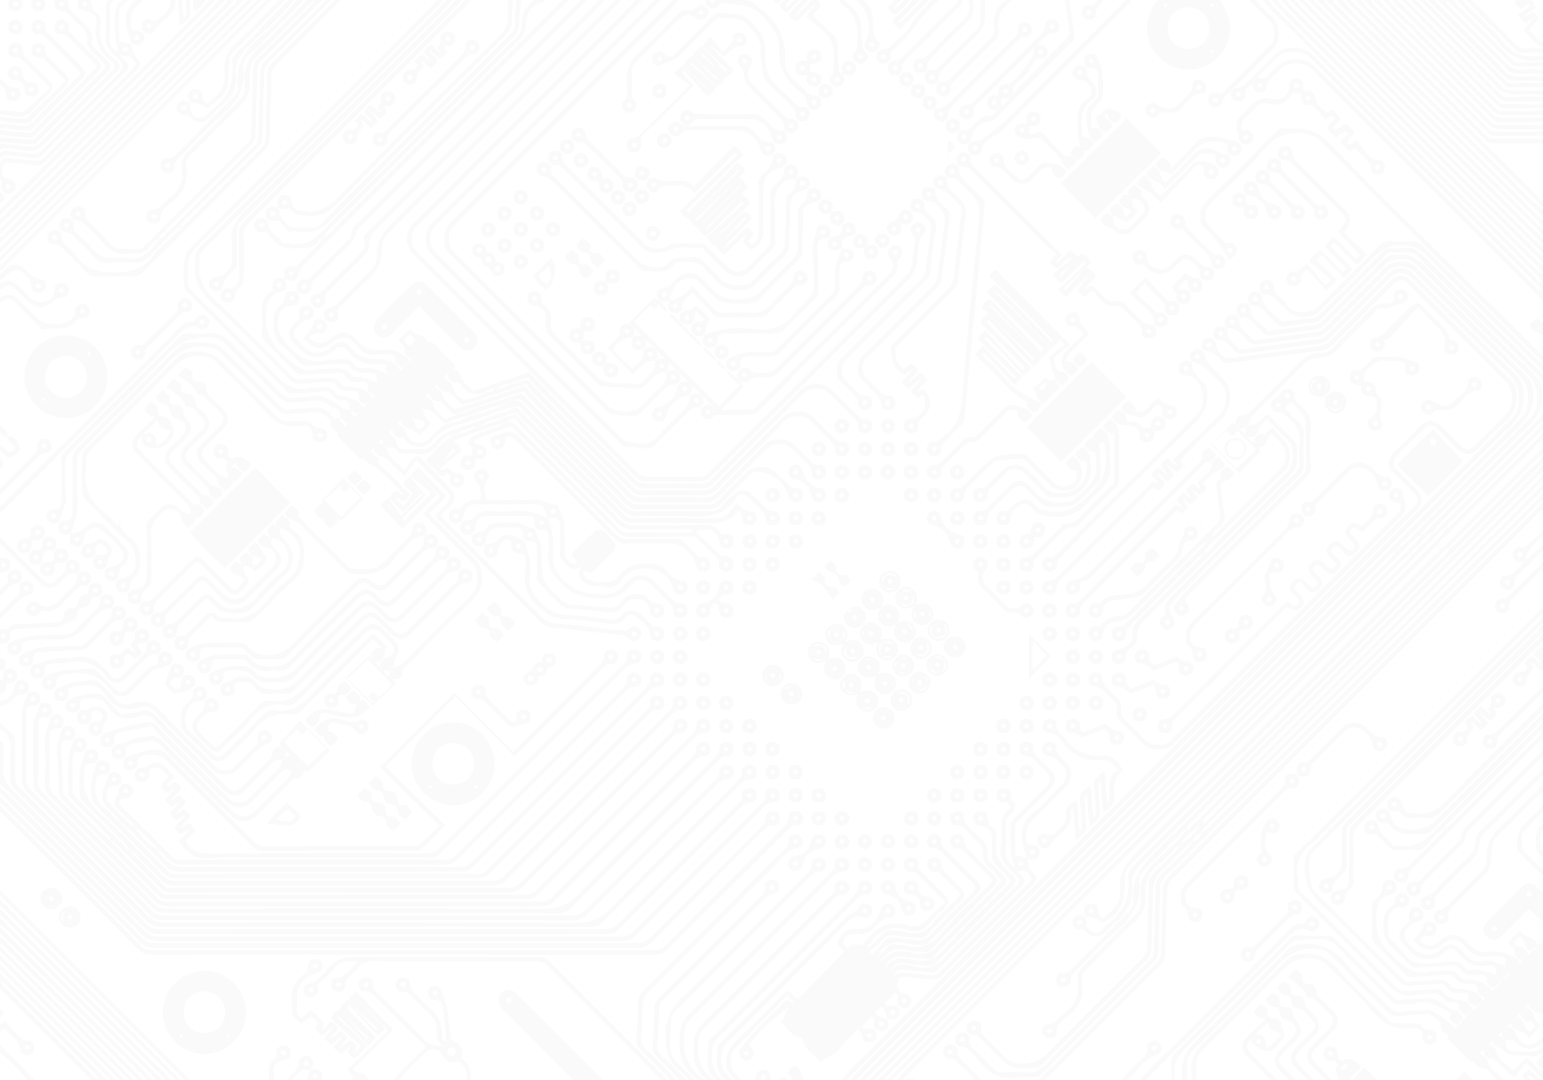
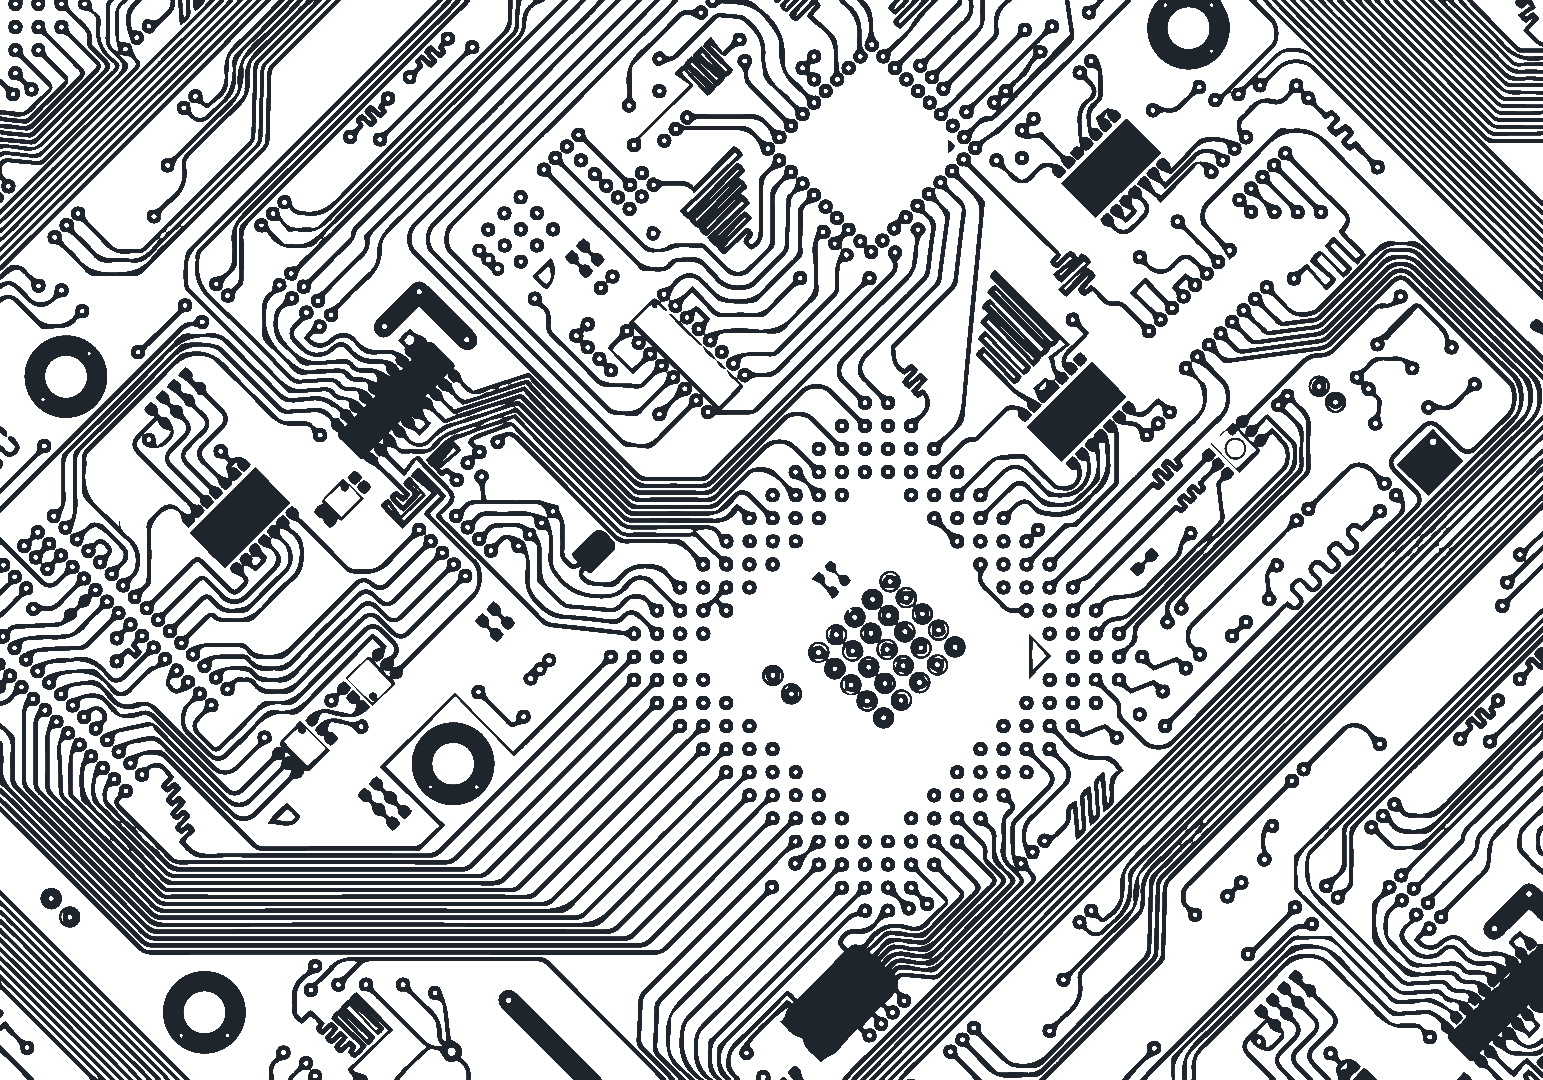
changed sponsor section again

diff --git a/index.html b/index.html
@@ -346,7 +346,7 @@
 				<div class="container">
 					<div class="row">
 						<div class="col-md-8 col-sm-12 col-xs-12 center-col text-center margin-auto">
-							<h4 class="text-weight-700 Raleway text-black text-center">Our Diamond Sponsors</h4>
+							<h4 class="text-weight-700 Raleway text-white text-center">Our Diamond Sponsors</h4>
 							<!-- Separator -->
 							<div
 								class="separator width-30px bottom-border border-2px border-color-gray-light margin-bottom-75px margin-left-right-auto">
@@ -391,7 +391,7 @@
 				<div class="container">
 					<div class="row">
 						<div class="col-md-8 col-sm-12 col-xs-12 center-col text-center margin-auto">
-							<h4 class="padding-top-40px text-weight-700 Raleway text-black text-center">Our Platinum Sponsor</h4>
+							<h4 class="padding-top-40px text-weight-700 Raleway text-white text-center">Our Platinum Sponsor</h4>
 							<!-- Separator -->
 							<div
 								class="separator width-30px bottom-border border-2px border-color-gray-light margin-bottom-50px margin-left-right-auto">
@@ -427,7 +427,7 @@
 				<div class="container">
 					<div class="row">
 						<div class="col-md-8 col-sm-12 col-xs-12 center-col text-center margin-auto">
-							<h4 class="padding-top-40px text-weight-700 Raleway text-black text-center">Our Gold Sponsors</h4>
+							<h4 class="padding-top-40px text-weight-700 Raleway text-white text-center">Our Gold Sponsors</h4>
 							<!-- Separator -->
 							<div
 								class="separator width-30px bottom-border border-2px border-color-gray-light margin-bottom-75px margin-left-right-auto">

diff --git a/css/style.css b/css/style.css
@@ -274,9 +274,10 @@ body{
 
 .sponsors{
     position: relative;
-    background-color: #fff;
+    background-color: #000;
     background-image: url("/images/background.png");
     background-attachment: fixed;
+    background-size: cover;
 }
 
 #sponsors{
